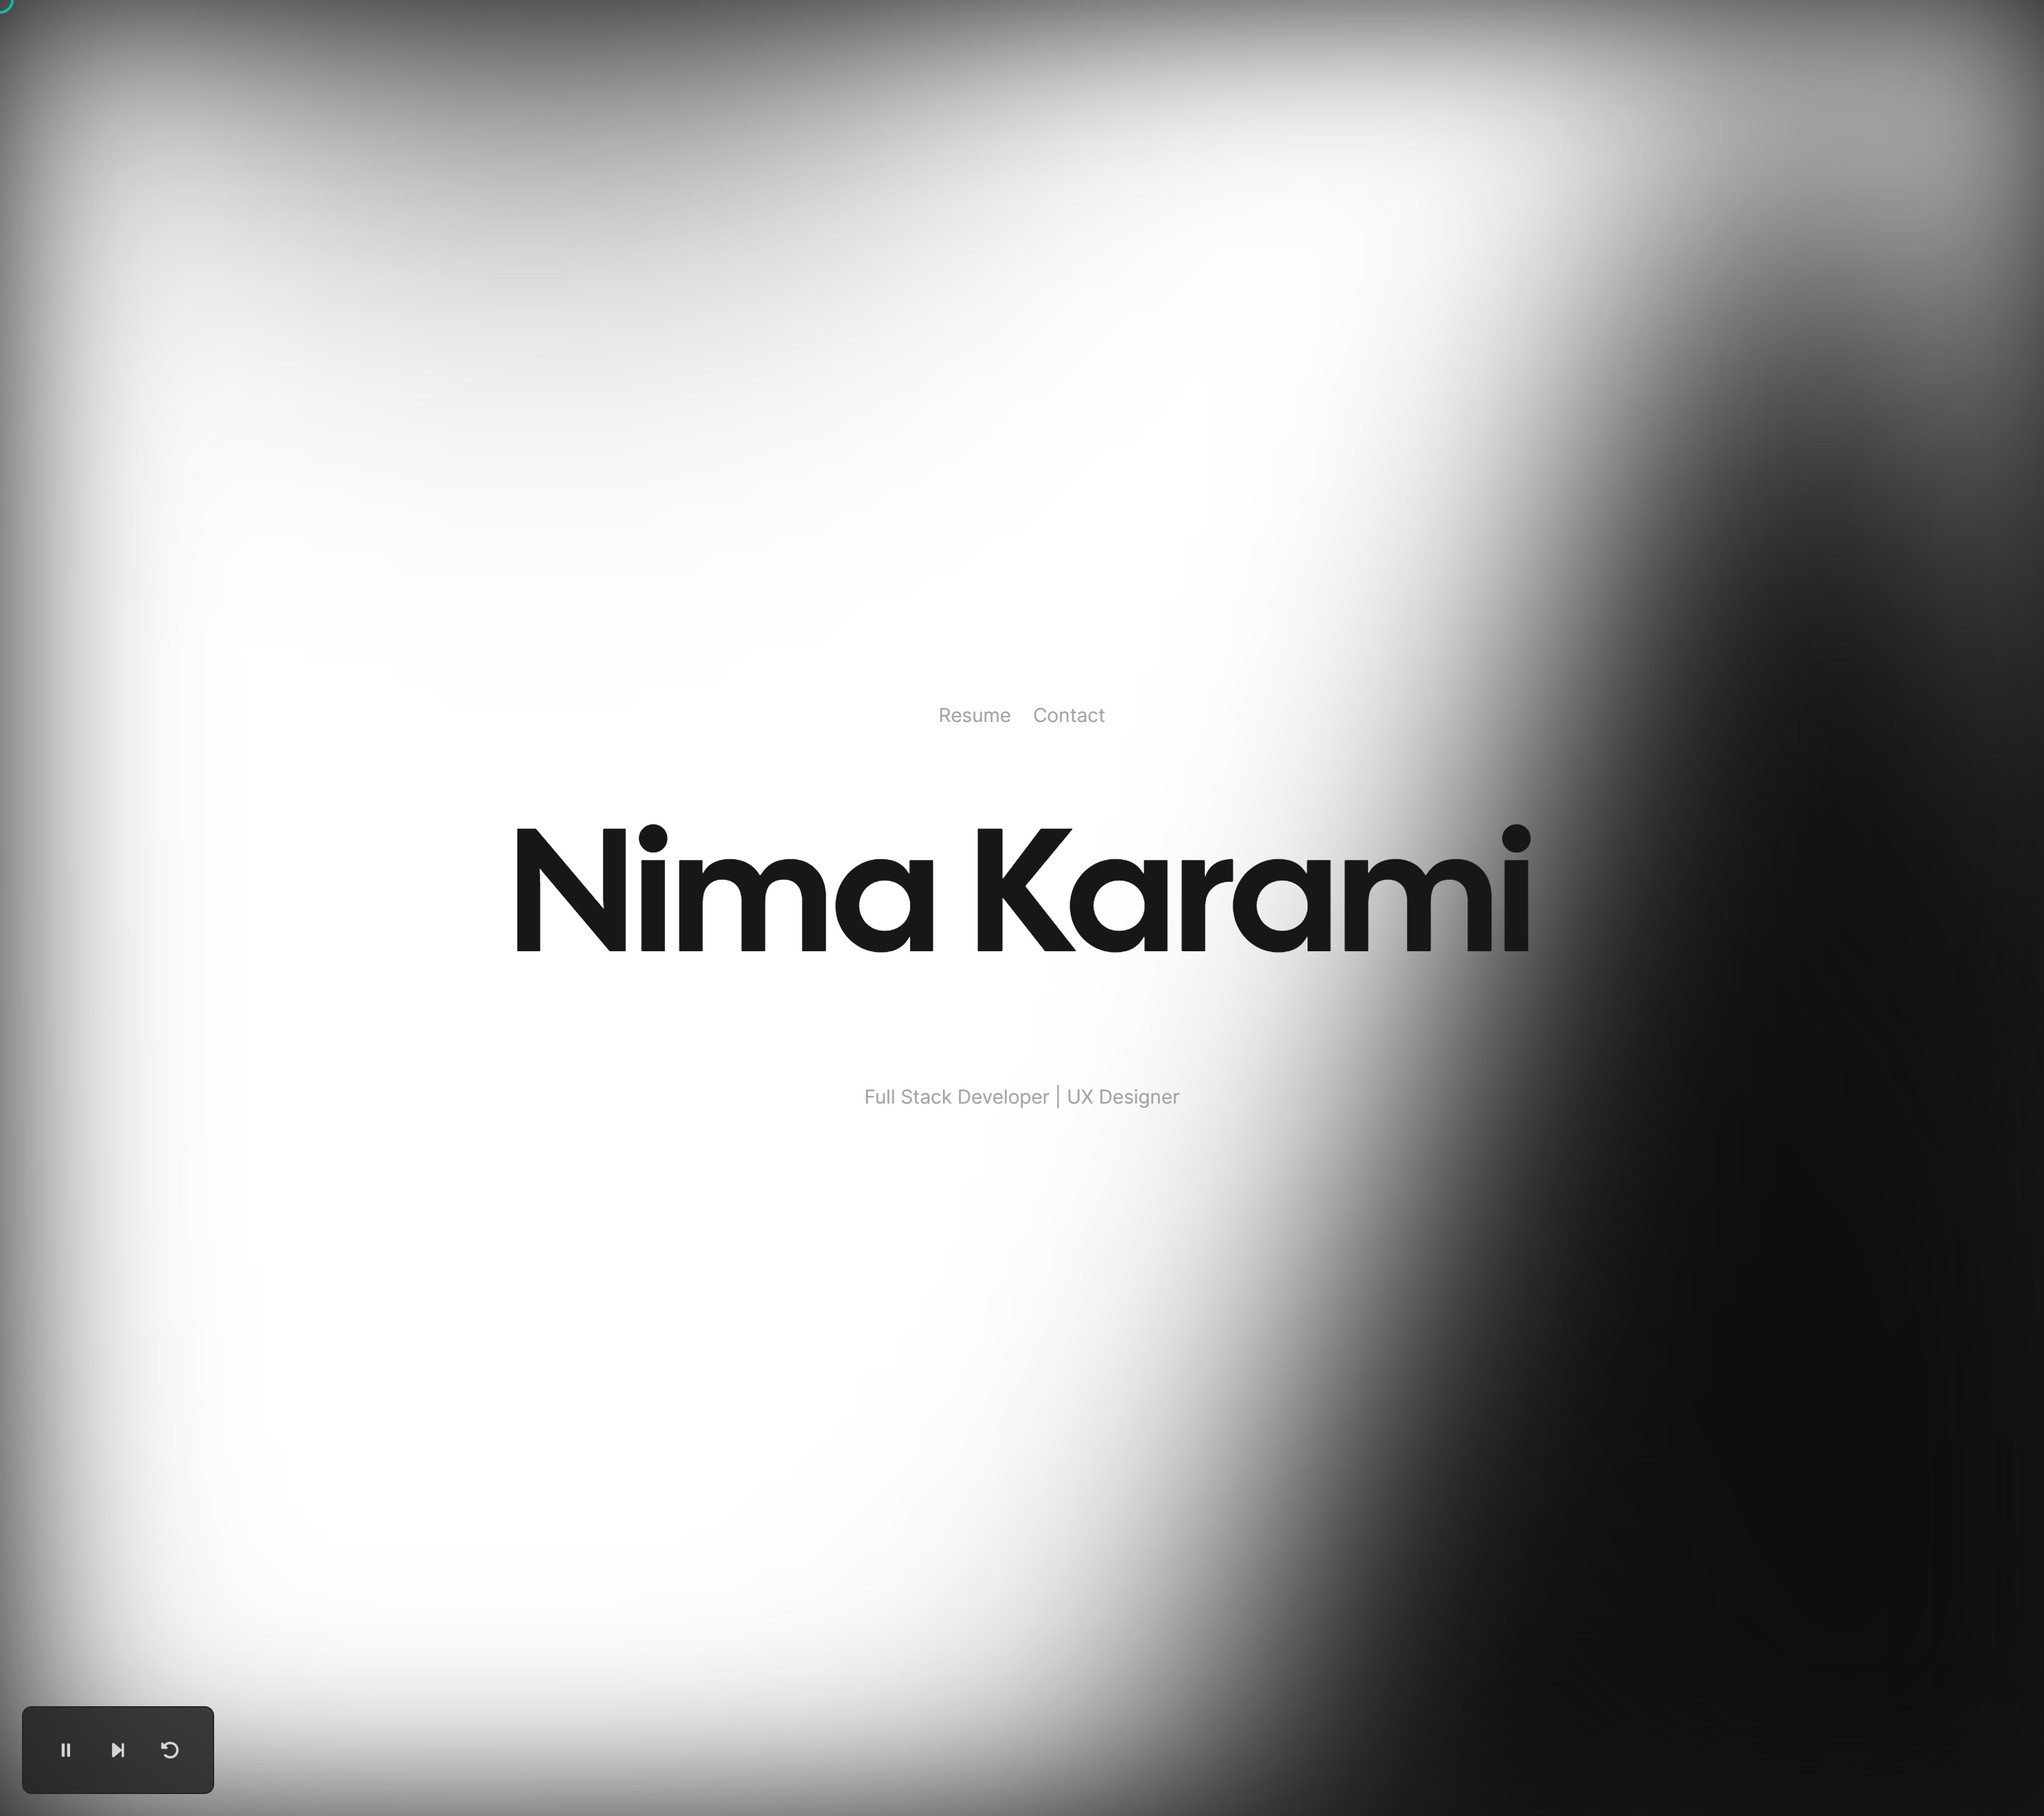
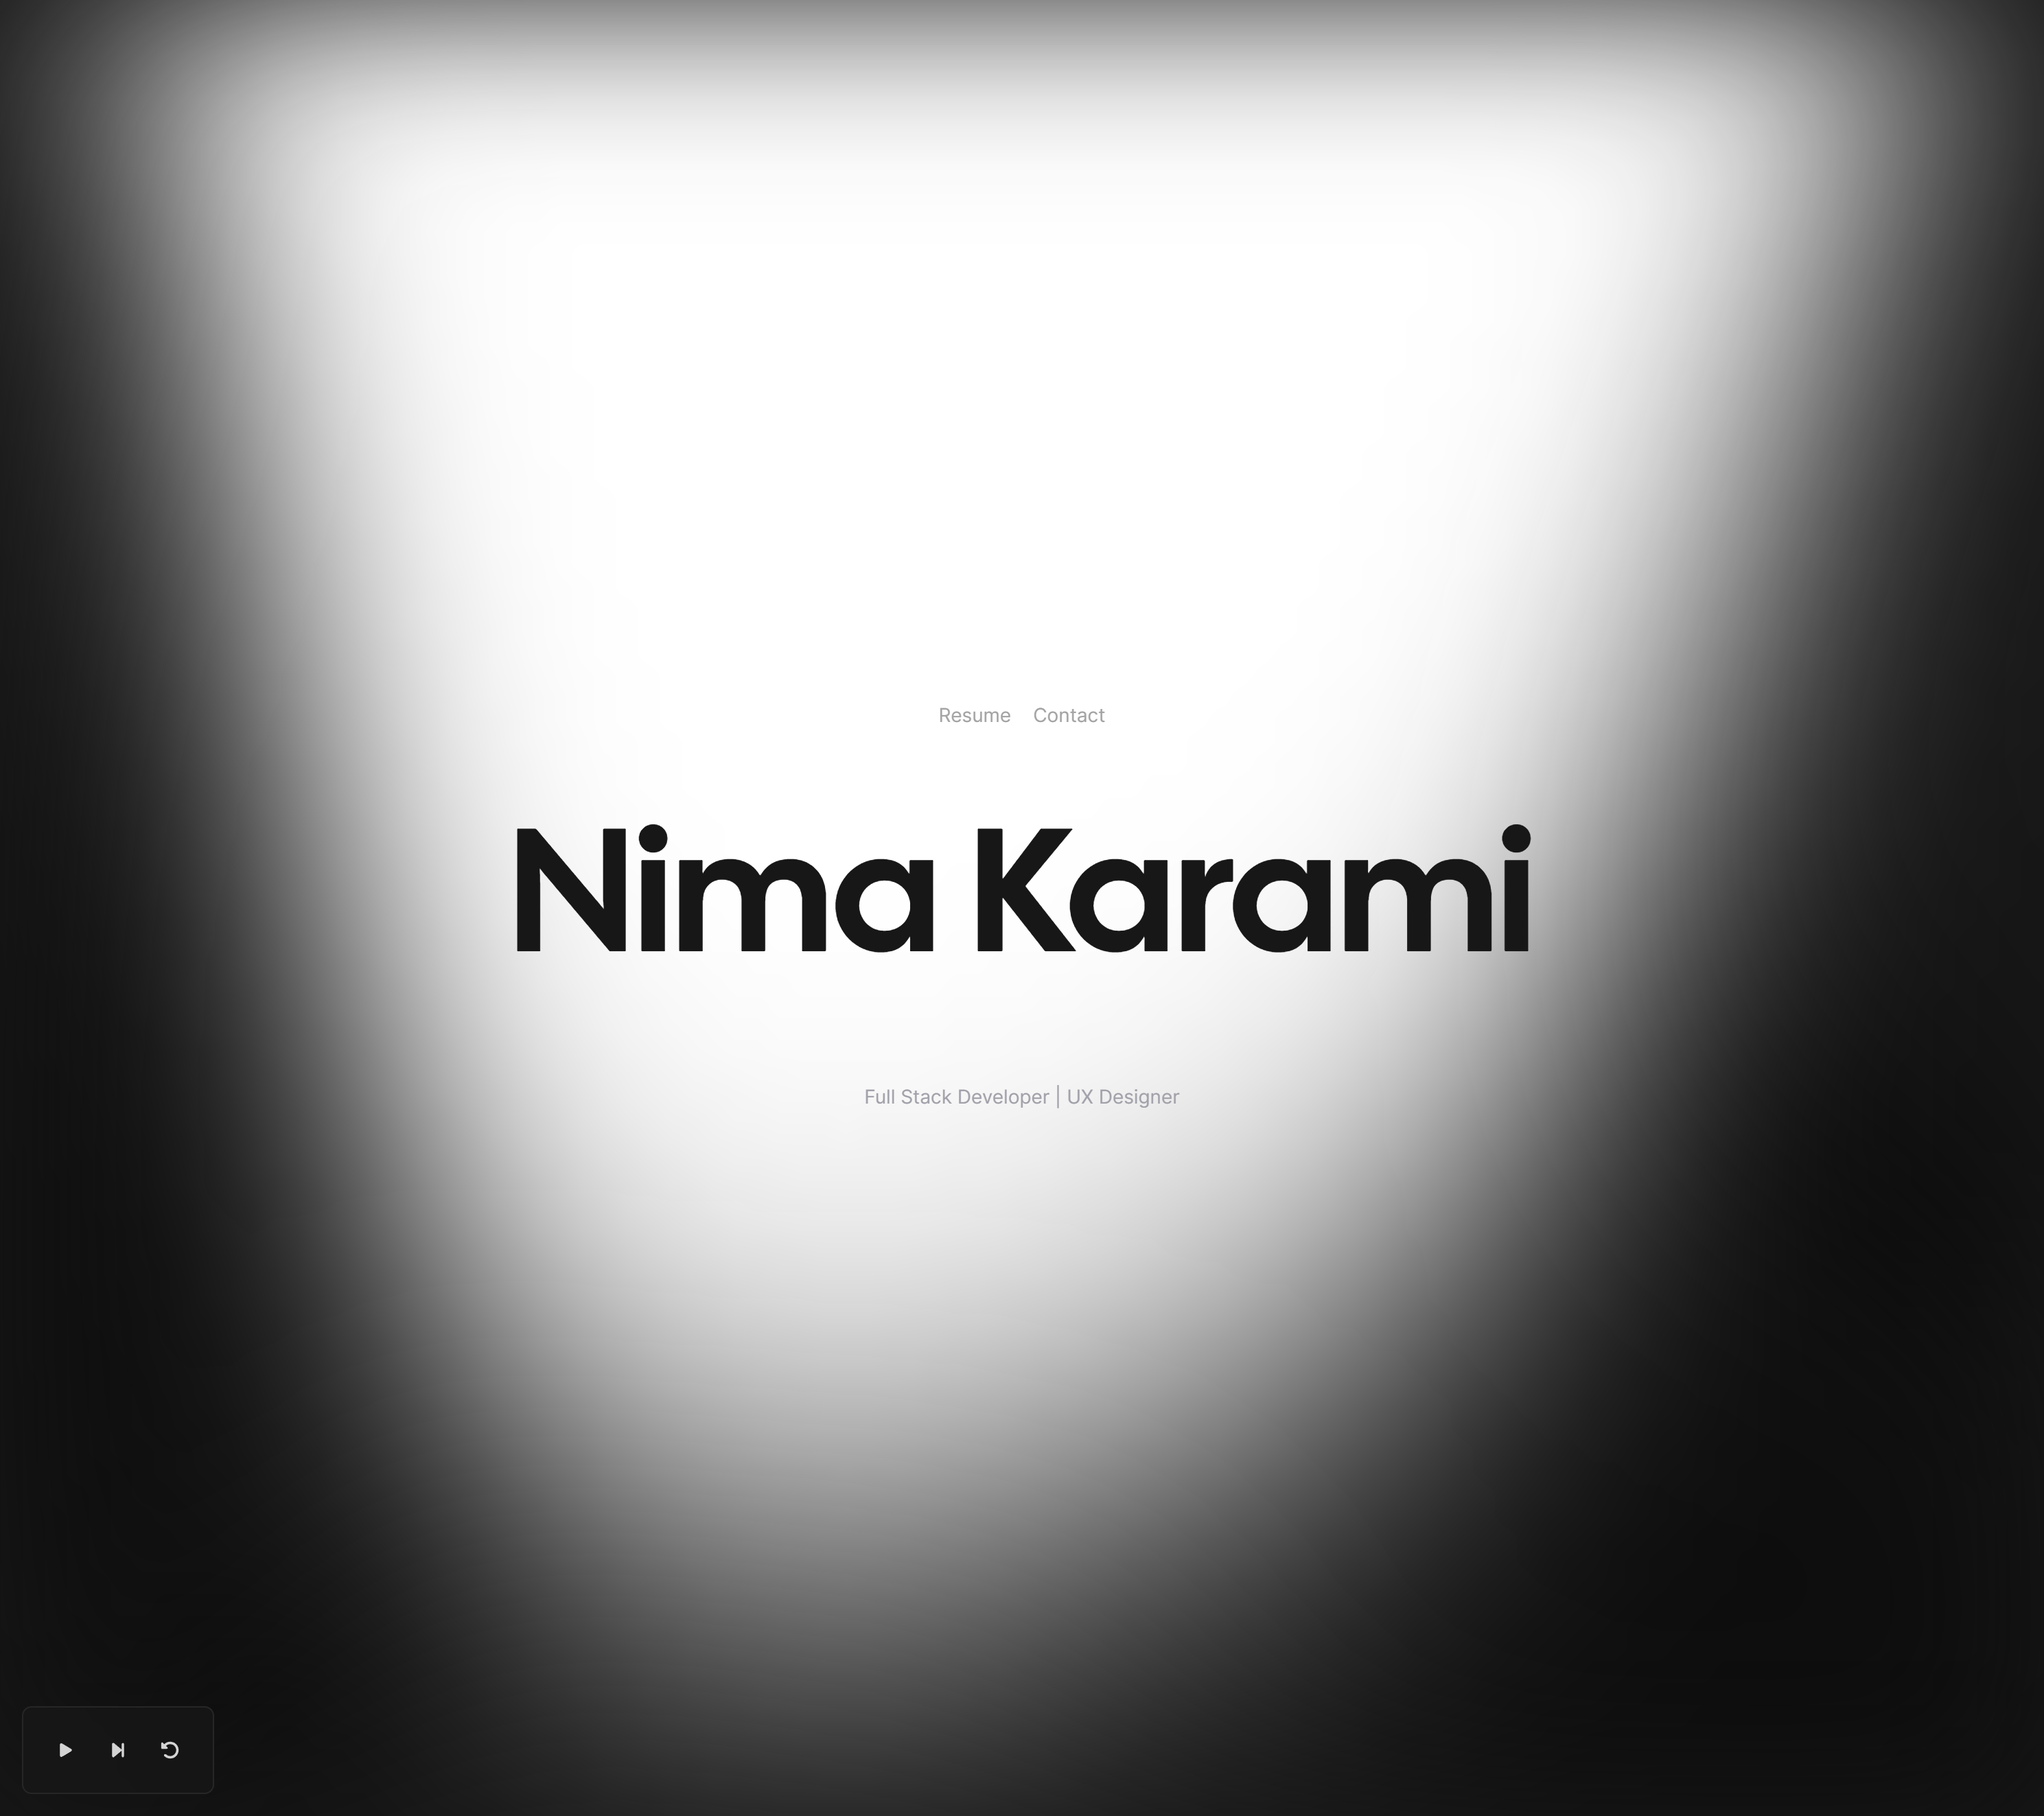
update preview image and meta tag description

diff --git a/src/pages/_app.tsx b/src/pages/_app.tsx
@@ -42,7 +42,7 @@ export default function App({ Component, pageProps, router }: AppProps) {
         <meta property="og:type" content="website" />
         <meta
           property="og:description"
-          content="Online Portfolio of Nima Karami, a Toronto-based Fullstack Developer and UX Designer"
+          content="Toronto-based Fullstack Developer and UX Designer"
         />
         <meta property="og:image" content="/preview.png" />
         <meta property="og:url" content="https://www.nima-karami.com" />
@@ -55,7 +55,7 @@ export default function App({ Component, pageProps, router }: AppProps) {
         />
         <meta
           name="twitter:description"
-          content="Online Portfolio of Nima Karami, a Toronto-based Fullstack Developer and UX Designer"
+          content="Toronto-based Fullstack Developer and UX Designer"
         />
         <meta name="twitter:image" content="/preview.png" />
       </Head>
